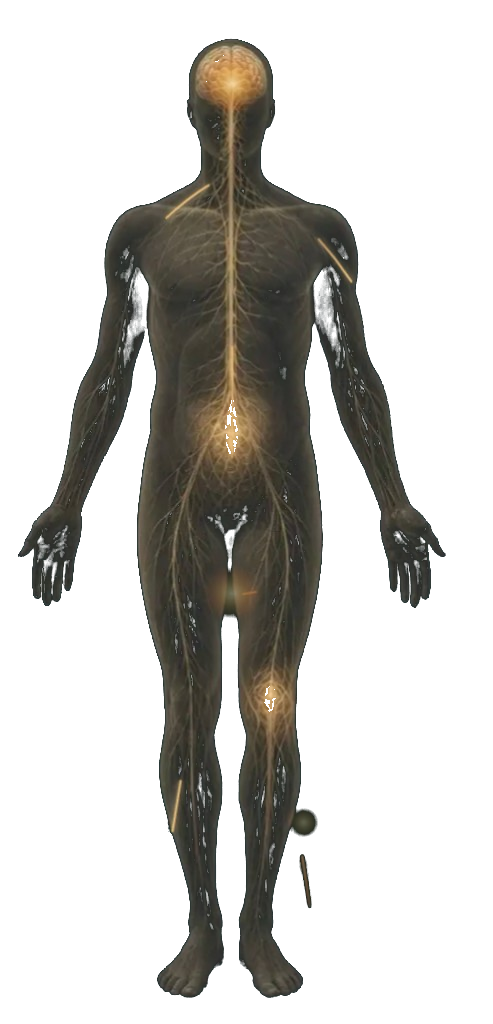
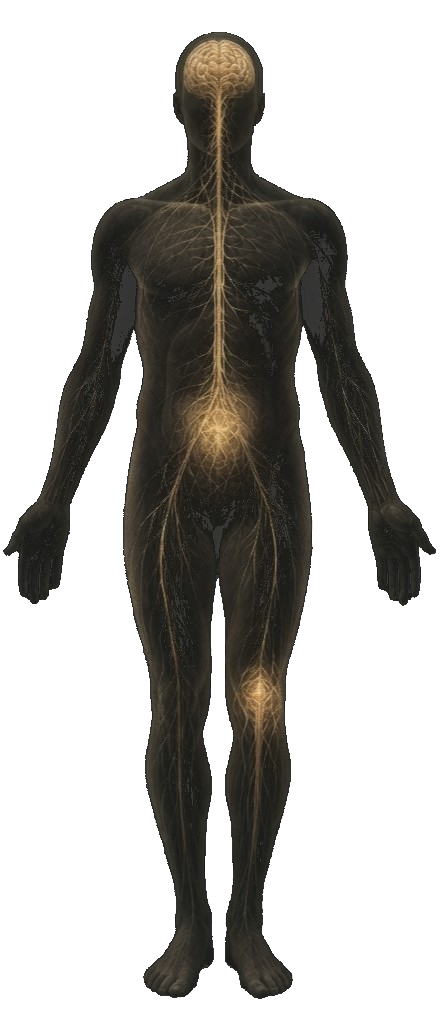
Polish hero CTAs and restore a Success Stories title.
Make the proof chip fully clickable, reveal Book a Call arrows on hover, and show a short outcome headline above the case cards.

Changed region(s): [[0.0, 0.0312, 1.0, 1.0], [0.2653, 0.4375, 0.2948, 0.5938]]

diff --git a/src/styles/lp.css b/src/styles/lp.css
@@ -187,12 +187,26 @@
   margin: 0;
   padding: 14px 16px;
   text-align: left;
+  text-decoration: none;
+  color: inherit;
   border-radius: 12px;
   background: rgba(7, 22, 24, 0.32);
   border: 1px solid rgba(245, 242, 235, 0.1);
   backdrop-filter: blur(10px);
   -webkit-backdrop-filter: blur(10px);
   box-shadow: none;
+  cursor: pointer;
+  transition:
+    background 0.25s var(--ease-out),
+    border-color 0.25s var(--ease-out);
+}
+.lp-hero__proof:hover {
+  background: rgba(7, 22, 24, 0.48);
+  border-color: rgba(245, 242, 235, 0.22);
+}
+.lp-hero__proof:focus-visible {
+  outline: none;
+  box-shadow: var(--focus-ring-shadow);
 }
 .lp-hero__proof-text {
   margin: 0;
@@ -202,6 +216,10 @@
   letter-spacing: -0.01em;
   color: var(--gray-200);
   white-space: nowrap;
+  transition: color 0.25s var(--ease-out);
+}
+.lp-hero__proof:hover .lp-hero__proof-text {
+  color: var(--gray-100);
 }
 .lp-hero__proof-text .text-accent {
   color: var(--orange-500);
@@ -228,22 +246,16 @@
   color: var(--teal-300);
   transition: color 0.25s var(--ease-out);
 }
-.lp-hero__proof-link:hover {
+.lp-hero__proof:hover .lp-hero__proof-link {
   gap: 10px;
   color: #fff;
-  background: none;
-  border-color: transparent;
 }
-.lp-hero__proof-link:hover svg {
+.lp-hero__proof:hover .lp-hero__proof-link svg {
   color: var(--orange-400);
-}
-.lp-hero__proof-link:focus-visible {
-  outline: none;
-  box-shadow: var(--focus-ring-shadow);
-  border-radius: 4px;
 }
 .lp-hero .btn--hero,
 .case-hero--names .btn--hero {
+  gap: 0;
   border-radius: var(--radius-pill);
   padding: 14px 28px;
   font-size: 14px;
@@ -255,13 +267,38 @@
   border: 1.5px solid rgba(245, 242, 235, 0.45);
   backdrop-filter: blur(8px);
   -webkit-backdrop-filter: blur(8px);
+  transition:
+    gap 0.25s var(--ease-out),
+    background 0.25s var(--ease-out),
+    border-color 0.25s var(--ease-out),
+    color 0.25s var(--ease-out);
+}
+.lp-hero .btn--hero svg,
+.case-hero--names .btn--hero svg {
+  width: 0;
+  opacity: 0;
+  color: var(--orange-400);
+  overflow: hidden;
+  transform: translateX(-4px);
+  transition:
+    width 0.25s var(--ease-out),
+    opacity 0.25s var(--ease-out),
+    transform 0.25s var(--ease-out),
+    color 0.25s var(--ease-out);
 }
 .lp-hero .btn--hero:hover,
 .case-hero--names .btn--hero:hover {
+  gap: 8px;
   color: var(--gray-100);
   background: rgba(7, 22, 24, 0.5);
   border-color: rgba(245, 242, 235, 0.7);
   filter: none;
+}
+.lp-hero .btn--hero:hover svg,
+.case-hero--names .btn--hero:hover svg {
+  width: 16px;
+  opacity: 1;
+  transform: translateX(0);
 }
 .lp-hero__scroll {
   position: absolute;
@@ -593,16 +630,22 @@
 }
 .impact .impact__intro {
   display: flex;
+  flex-direction: column;
+  align-items: center;
   justify-content: center;
   width: 100%;
   max-width: none;
-  margin: 0 0 20px;
+  margin: 0 0 28px;
   text-align: center;
 }
 .impact .impact__intro .badge {
   display: block;
   width: fit-content;
+  margin: 0 auto 16px;
+}
+.impact .impact__intro .section-title {
   margin: 0;
+  color: var(--gray-100);
 }
 .impact .impact__grid {
   display: grid;
@@ -1159,7 +1202,7 @@
 }
 .impact__intro .section-title {
   margin: 0;
-  color: var(--gray-900);
+  color: var(--gray-100);
 }
 .impact__grid {
   display: grid;
@@ -2014,6 +2057,32 @@ button.science-principle__media:focus-visible {
 }
 .contact__ctas {
   margin-top: 36px;
+}
+.contact__ctas .btn {
+  gap: 0;
+  transition:
+    gap 0.25s var(--ease-out),
+    filter var(--dur-fast) var(--ease-out),
+    background var(--dur-fast) var(--ease-out),
+    transform var(--dur-fast) var(--ease-out);
+}
+.contact__ctas .btn svg {
+  width: 0;
+  opacity: 0;
+  overflow: hidden;
+  transform: translateX(-4px);
+  transition:
+    width 0.25s var(--ease-out),
+    opacity 0.25s var(--ease-out),
+    transform 0.25s var(--ease-out);
+}
+.contact__ctas .btn:hover {
+  gap: 10px;
+}
+.contact__ctas .btn:hover svg {
+  width: 18px;
+  opacity: 1;
+  transform: translateX(0);
 }
 
 /* Calendar booking mock */

diff --git a/src/components/ProtocolBody.tsx b/src/components/ProtocolBody.tsx
@@ -25,7 +25,7 @@ export function ProtocolBody({
       <Image
         src="/assets/protocol-body.png"
         alt=""
-        width={493}
+        width={441}
         height={1024}
         className="protocol__body-img"
         sizes="(max-width: 1024px) 260px, 380px"
@@ -34,7 +34,7 @@ export function ProtocolBody({
 
       <svg
         className="protocol__body-fx"
-        viewBox="0 0 493 1024"
+        viewBox="0 0 441 1024"
         fill="none"
         xmlns="http://www.w3.org/2000/svg"
       >
@@ -59,25 +59,25 @@ export function ProtocolBody({
           <circle
             className="protocol__hotspot protocol__hotspot--brain"
             data-active={phase === 0 ? "true" : "false"}
-            cx="246"
-            cy="92"
-            r="36"
+            cx="220"
+            cy="85"
+            r="34"
             fill="url(#hotspotCore)"
           />
           <circle
             className="protocol__hotspot protocol__hotspot--stomach"
             data-active={phase === 1 ? "true" : "false"}
-            cx="246"
-            cy="520"
-            r="44"
+            cx="250"
+            cy="547"
+            r="42"
             fill="url(#hotspotCore)"
           />
           <circle
             className="protocol__hotspot protocol__hotspot--knee"
             data-active={phase === 2 ? "true" : "false"}
-            cx="318"
-            cy="780"
-            r="30"
+            cx="260"
+            cy="760"
+            r="28"
             fill="url(#hotspotCore)"
           />
         </g>

diff --git a/src/components/LandingHero.tsx b/src/components/LandingHero.tsx
@@ -26,17 +26,18 @@ export function LandingHero({ content }: { content: SiteContent }) {
           <AccentText as="h1" className="lp-hero__title" text={hero.title} />
           <p className="lp-hero__sub">{hero.sub}</p>
           <a className="btn btn--ghost btn--hero" href="#contact">
-            {hero.ctaPrimary}
+            <ArrowRight size={16} weight="bold" aria-hidden />
+            <span>{hero.ctaPrimary}</span>
           </a>
         </div>
 
-        <aside className="lp-hero__proof">
+        <a className="lp-hero__proof" href="#cases">
           <AccentText as="p" className="lp-hero__proof-text" text={hero.proof} />
-          <a className="lp-hero__proof-link" href="#cases">
+          <span className="lp-hero__proof-link">
             <span>{hero.proofCta}</span>
             <ArrowRight size={16} weight="bold" aria-hidden />
-          </a>
-        </aside>
+          </span>
+        </a>
       </div>
 
       <a

diff --git a/src/components/ImpactSection.tsx b/src/components/ImpactSection.tsx
@@ -62,7 +62,7 @@ export function ImpactSection({ content }: { content: SiteContent }) {
         <div className="container impact__container">
           <Reveal className="impact__intro">
             <span className="badge badge--teal-soft-dark">{cases.badge}</span>
-            <h2 className="sr-only">{cases.badge}</h2>
+            <h2 className="section-title section-title--light">{cases.title}</h2>
           </Reveal>
 
           <div className="impact__grid">

diff --git a/src/components/ContactSection.tsx b/src/components/ContactSection.tsx
@@ -24,7 +24,8 @@ export function ContactSection({ content }: { content: SiteContent }) {
               className="btn btn--accent btn--lg"
               href={`mailto:${contact.email}`}
             >
-              {contact.cta} <ArrowRight size={18} weight="bold" />
+              <ArrowRight size={18} weight="bold" aria-hidden />
+              <span>{contact.cta}</span>
             </a>
           </div>
           <p className="contact__phone">

diff --git a/src/content/fr.ts b/src/content/fr.ts
@@ -108,7 +108,7 @@ export const fr: SiteContent = {
   },
   cases: {
     badge: "Histoires de succès",
-    title: "Ensemble, nous battons le pronostic de **90 %**",
+    title: "Ils ont battu le pronostic et gagné.",
     subtitle: "",
     readMore: "Voir leur histoire",
     backLabel: "Retour à l'accueil",

diff --git a/src/content/en.ts b/src/content/en.ts
@@ -106,7 +106,7 @@ export const en: SiteContent = {
   },
   cases: {
     badge: "Success Stories",
-    title: "Together we beat the prognosis by **90%**",
+    title: "They beat the prognosis and won.",
     subtitle: "",
     readMore: "See their story",
     backLabel: "Back to home",
